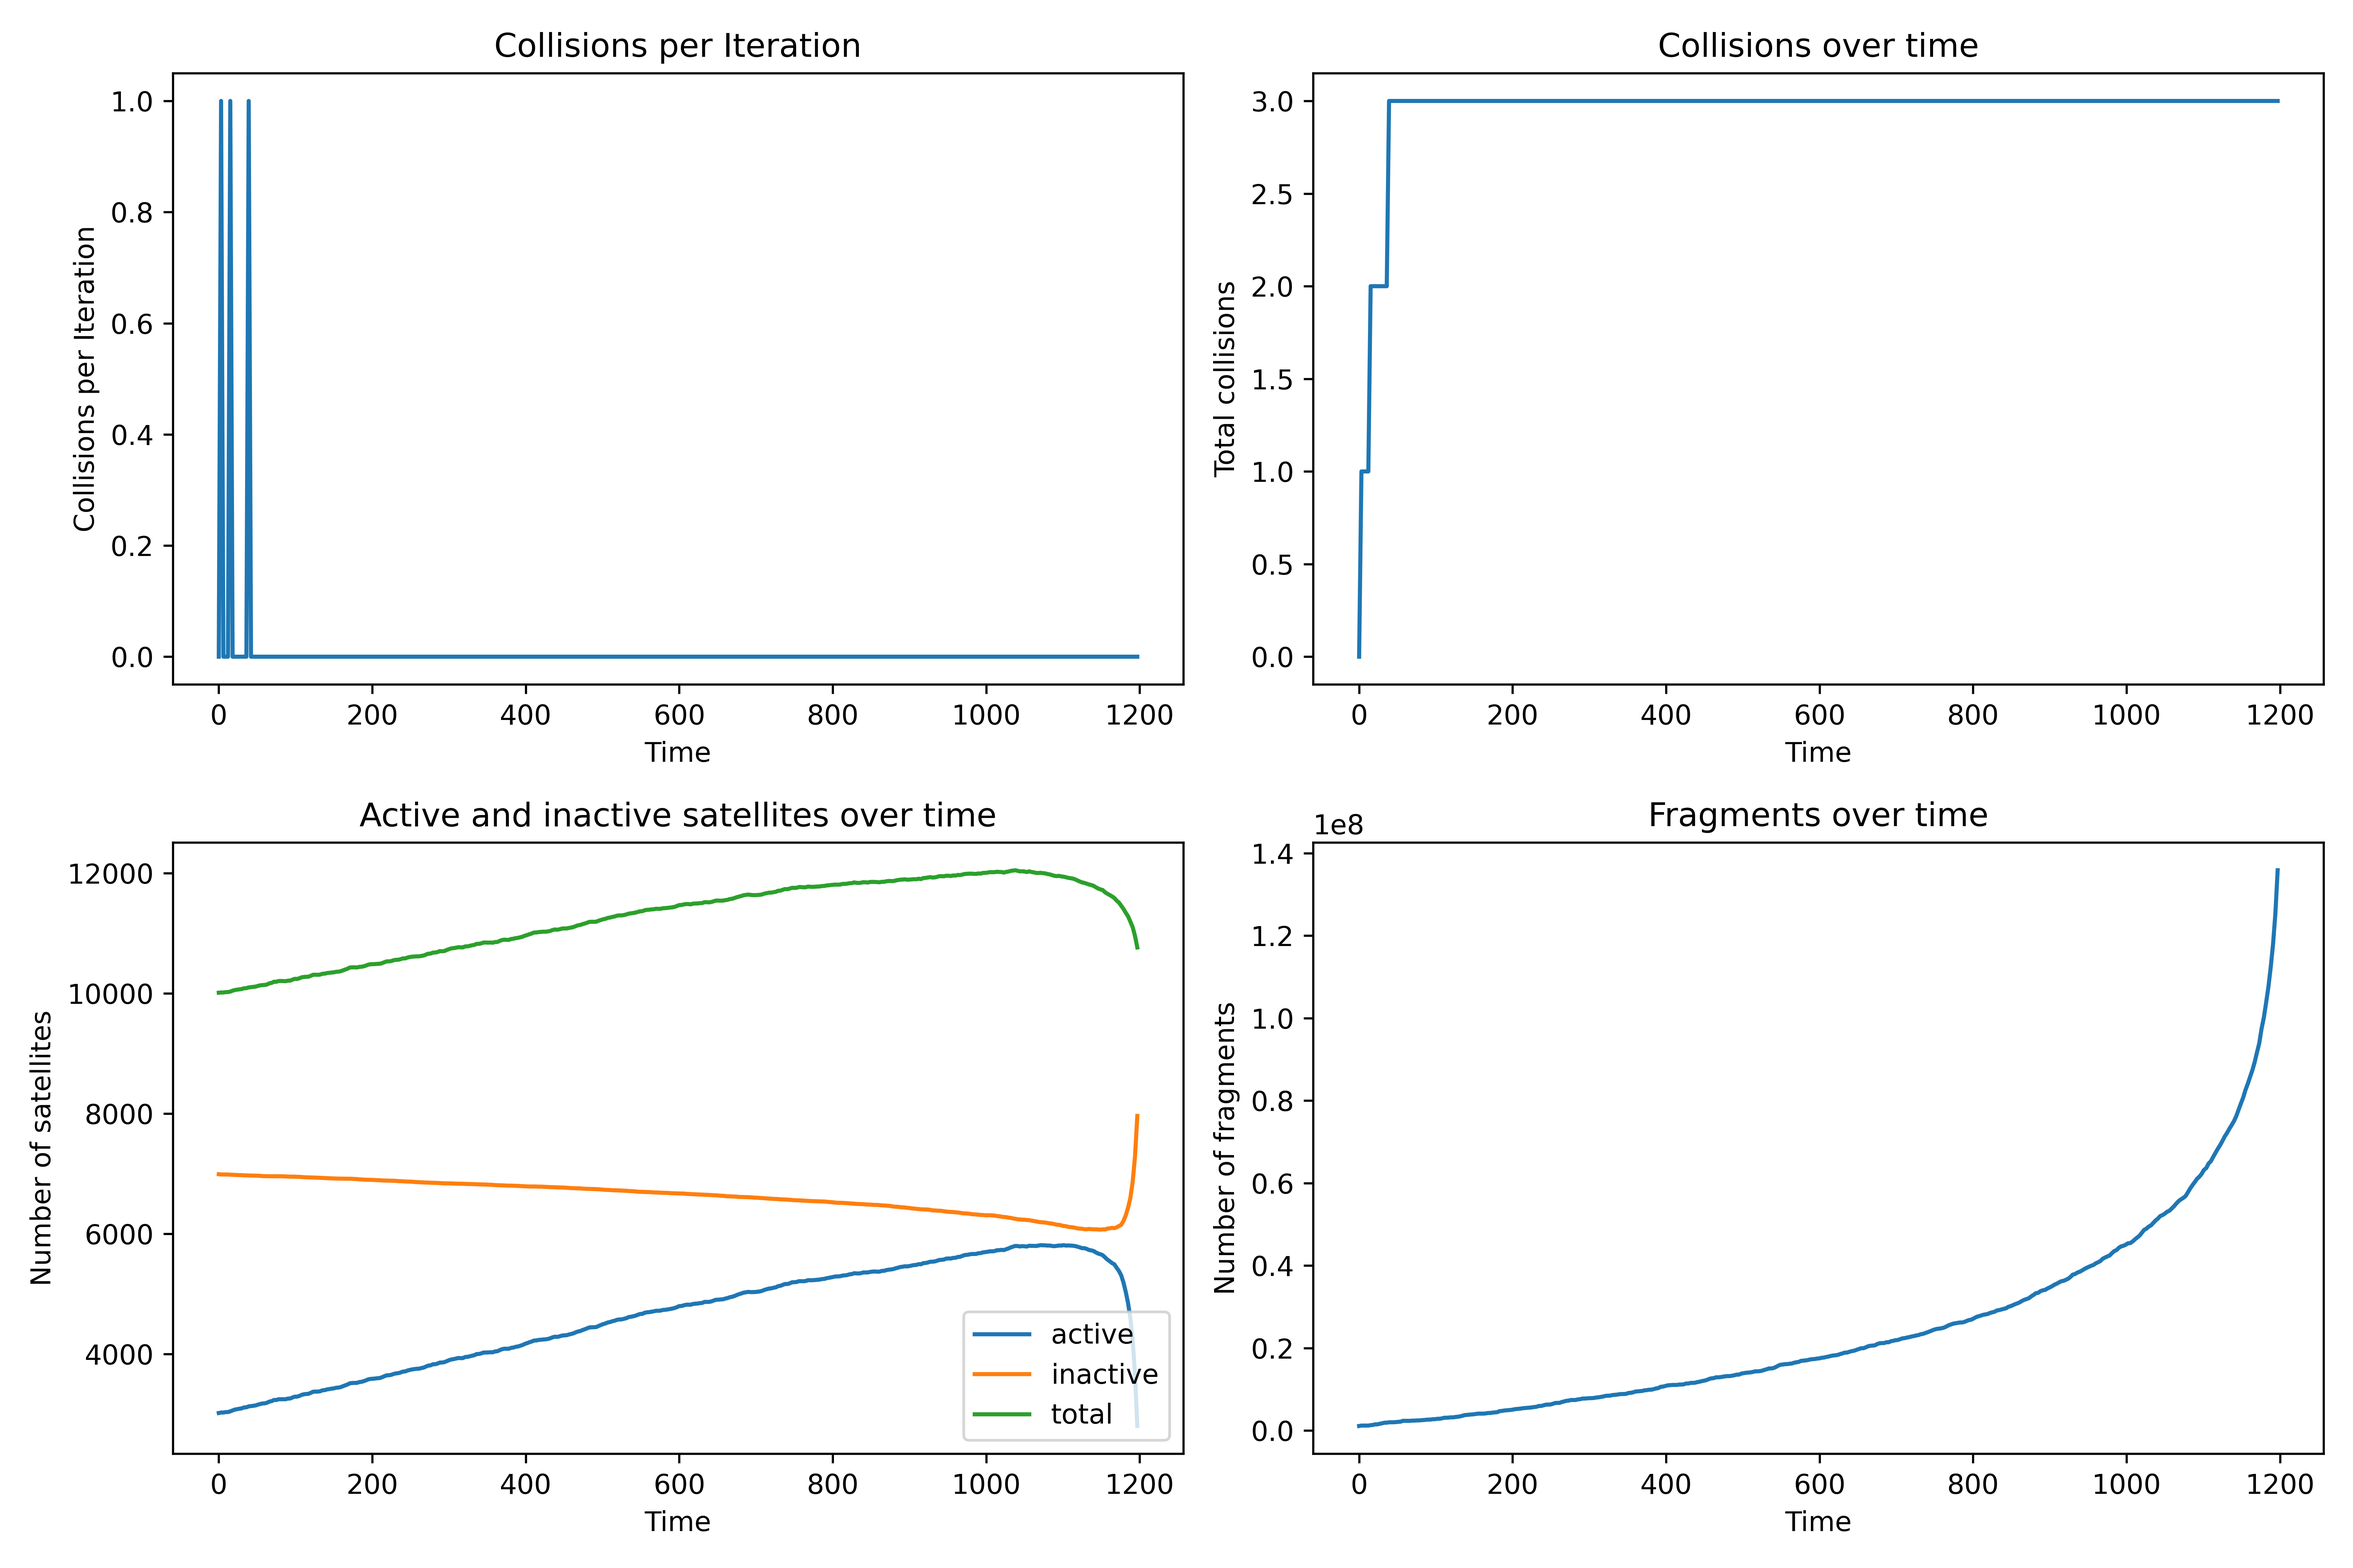
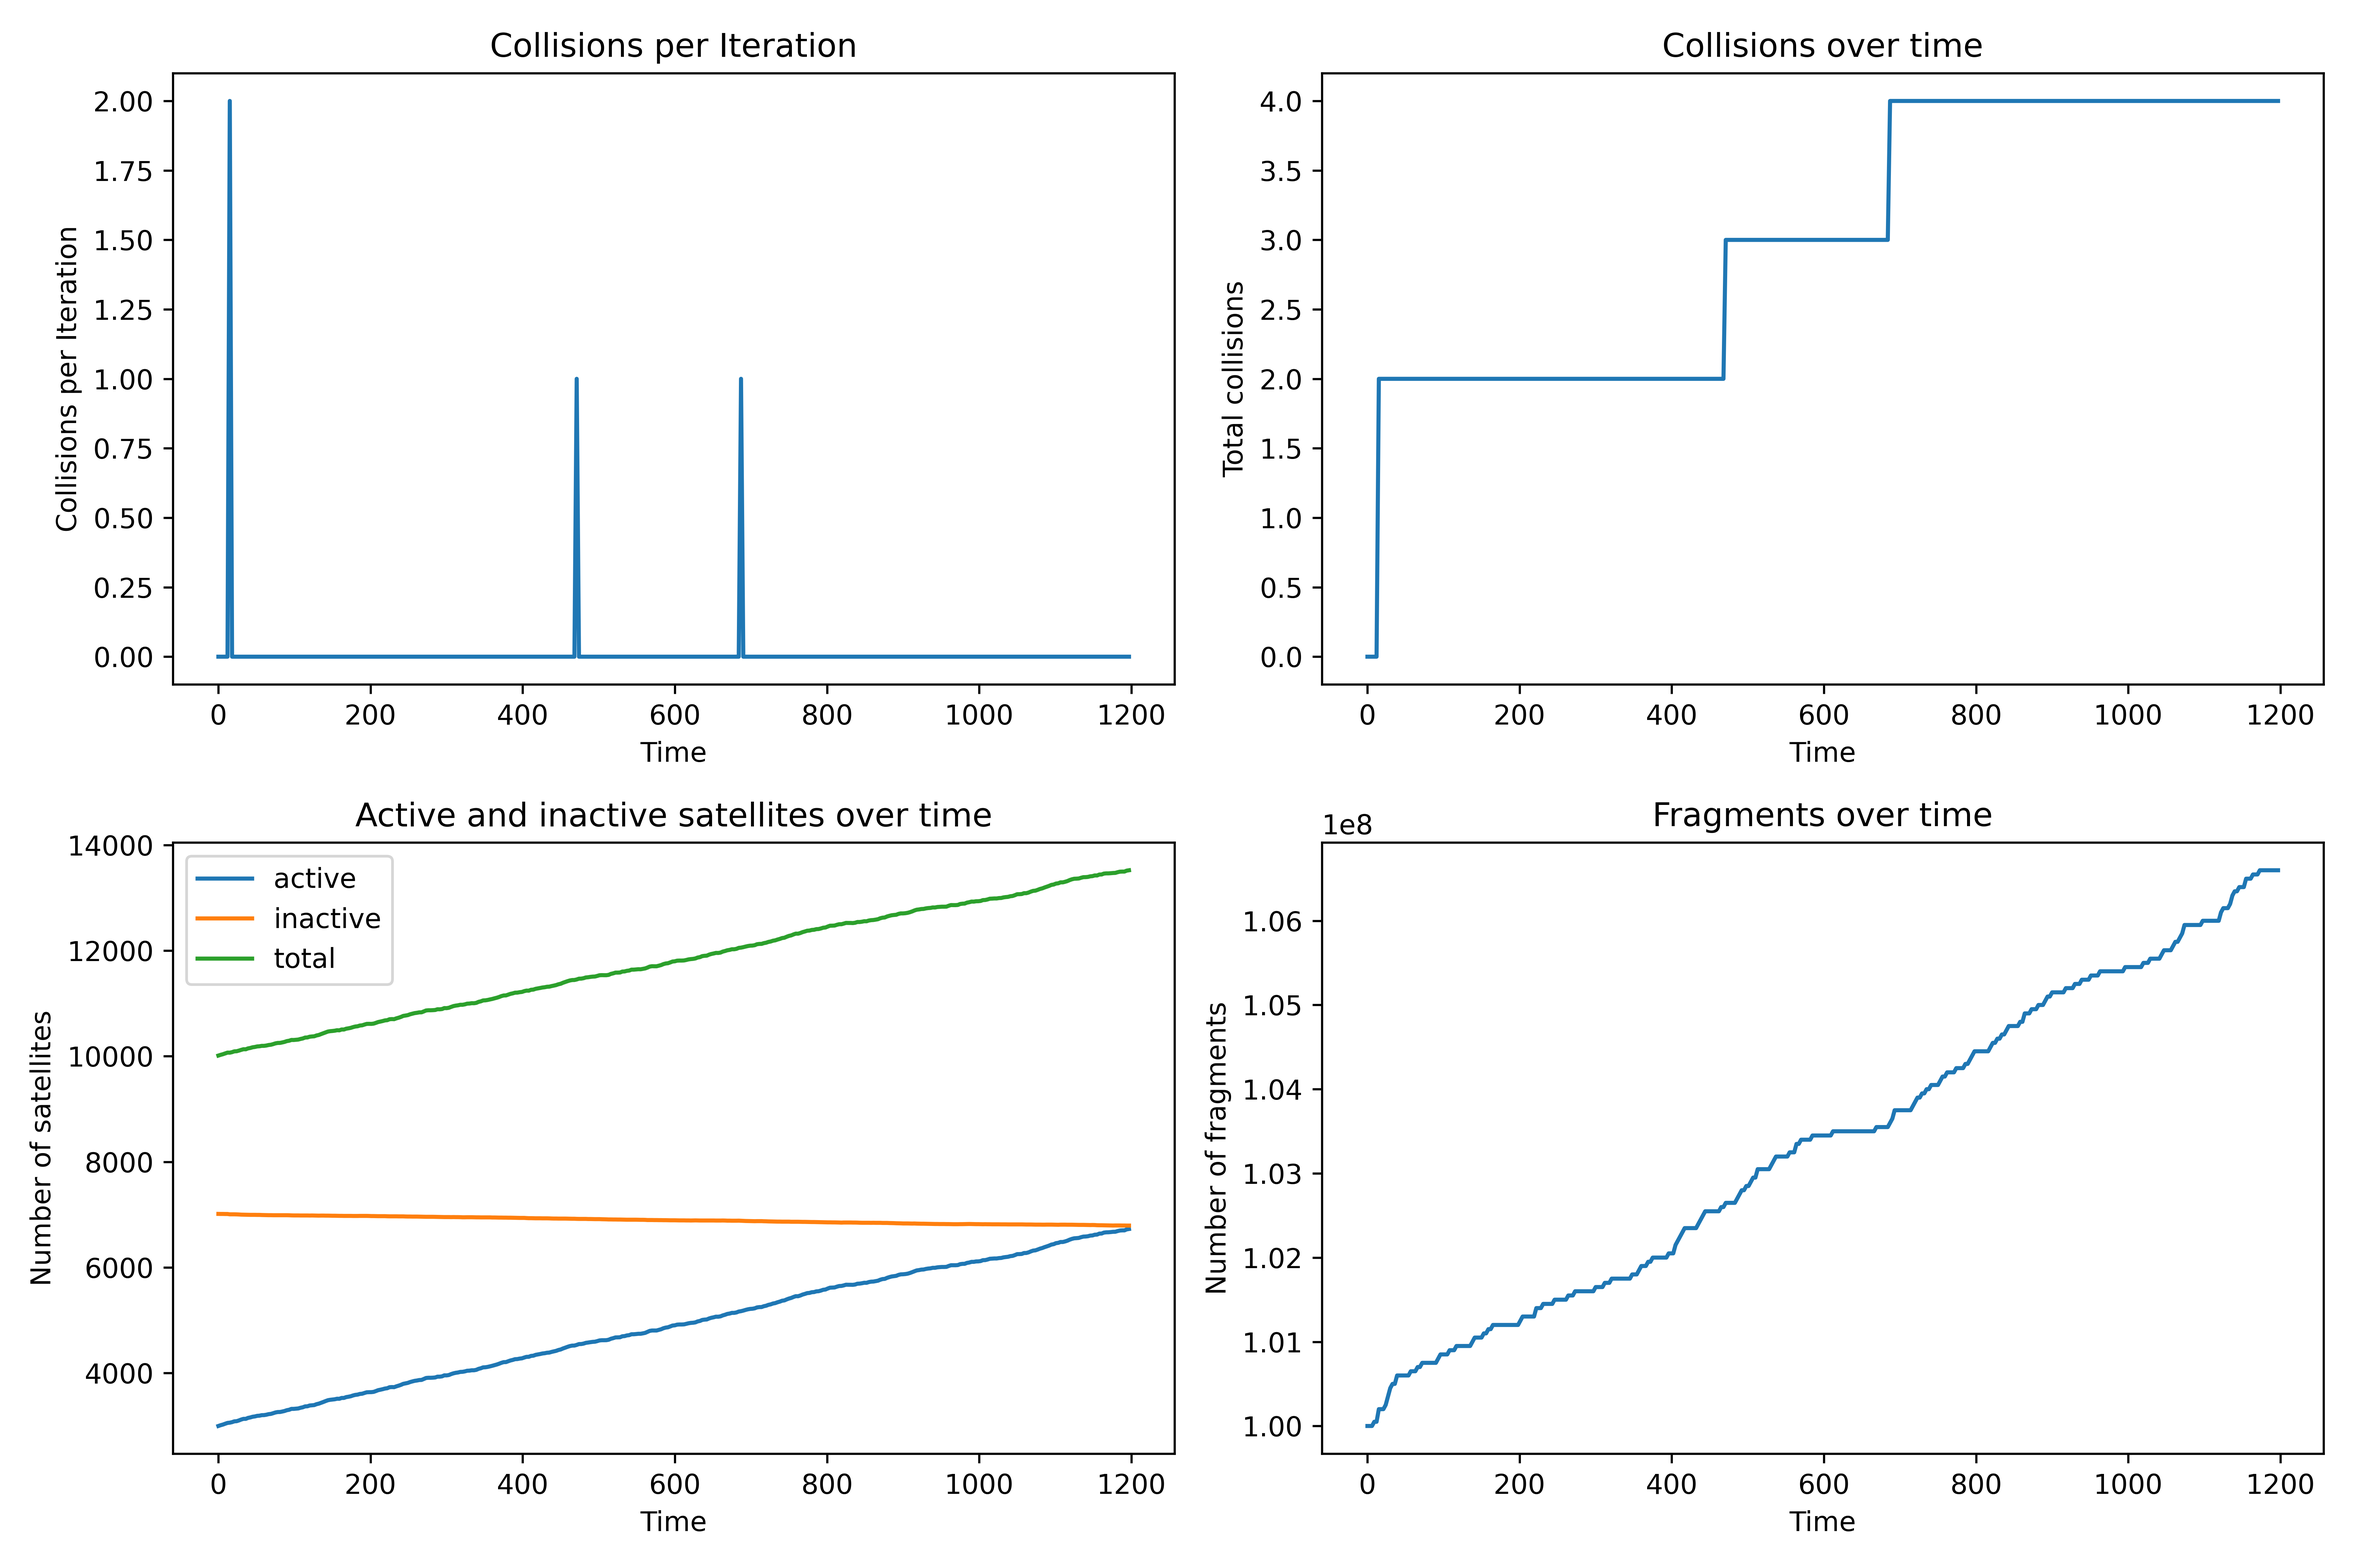
Change fragment collision probability
Now follows linear distribution

diff --git a/Python/OrbitalDistance/probability_distributions.py b/Python/OrbitalDistance/probability_distributions.py
@@ -41,22 +41,40 @@ def logistic_distribution(xx, gg, dd, cc):
     return yy
 
 
-def plot_distributions(x1, sigma, active, x2, gg, dd, cc):
-    hnx = np.linspace(0, x1, 1000)
-    halfNormal = half_normal(hnx, sigma, active)
-    plt.plot(hnx, halfNormal, 'r-', lw=2)
-    plt.xlabel('Value')
-    plt.ylabel('Frequency')
-    plt.title(f'Half Normal Distribution with Standard Deviation σ={sigma}')
-    plt.show()
+@jit(nopython=True)
+def linear_distribution(xx, mm, bb):
+    yy = mm * xx + bb
+    return yy
 
-    lx = np.linspace(0, x2, 1000)
-    logistic = logistic_distribution(lx, gg, dd, cc)
-    plt.plot(hnx, logistic, 'r-', lw=2)
-    plt.xlabel('Value')
-    plt.ylabel('Frequency')
-    plt.title(f'Half Normal Distribution with Standard Deviation σ={sigma}')
-    plt.show()
+
+def plot_distributions(x1, sigma, active, x2, gg, dd, cc, x3, mm, bb, plot=(1, 1, 1)):
+    plot_normal, plot_logistic, plot_linear = plot
+    if plot_normal:
+        hnx = np.linspace(0, x1, 1000)
+        halfNormal = half_normal(hnx, sigma, active)
+        plt.plot(hnx, halfNormal, 'r-', lw=2)
+        plt.xlabel('Value')
+        plt.ylabel('Frequency')
+        plt.title(f'Half Normal Distribution with Standard Deviation σ={sigma}')
+        plt.show()
+
+    if plot_logistic:
+        lx = np.linspace(0, x2, 1000)
+        logistic = logistic_distribution(lx, gg, dd, cc)
+        plt.plot(lx, logistic, 'r-', lw=2)
+        plt.xlabel('Value')
+        plt.ylabel('Frequency')
+        plt.title(f'Logistic Distribution with d={dd}, c={cc}')
+        plt.show()
+
+    if plot_linear:
+        linx = np.linspace(0, x3, 1000)
+        linear = linear_distribution(linx, mm, bb)
+        plt.plot(linx, linear, 'r-', lw=2)
+        plt.xlabel('Value')
+        plt.ylabel('Frequency')
+        plt.title(f'Linear Distribution with m={mm}, b={bb}')
+        plt.show()
 
 
 if __name__ == "__main__":
@@ -64,9 +82,13 @@ if __name__ == "__main__":
     sigma = 2000
     active = 1
 
-    x2 = 10000000
+    x2 = 1000000000
     gg = 1
-    dd = 1000000
-    cc = 0.0000001
-    plot_distributions(x1, sigma, active, x2, gg, dd, cc)
-    print("Done")
+    dd = 10000
+    cc = 0.00000002
+
+    x3 = 1000000000
+    mm = 1 / 10000 / 1000000000
+    bb = 0
+
+    plot_distributions(x1, sigma, active, x2, gg, dd, cc, x3, mm, bb, plot=(0, 0, 1))

diff --git a/Python/OrbitalDistance/model_dynamics.py b/Python/OrbitalDistance/model_dynamics.py
@@ -1,11 +1,8 @@
-import numpy as np
-from numba import jit
-from probability_distributions import *
 from calculations import *
 
 
 @jit(nopython=True)
-def small_fragment(colProbMatrix, satParameters, satConstants, smallFragments, dd, cc, sigma, accuracy):
+def small_fragment(colProbMatrix, satParameters, satConstants, smallFragments, mm, bb, sigma, accuracy):
     '''
     Updates the collision probability matrix considering the chance that a number of active satellites are hit by small
     fragments and become an inactive one. The probability of a fragment colliding with a satellite is calculated using a
@@ -32,7 +29,7 @@ def small_fragment(colProbMatrix, satParameters, satConstants, smallFragments, d
     activeSatellites = np.count_nonzero(activeSatParameters)
     for ii in range(activeSatellites):
         pp = np.random.rand()
-        fragmentCollisionProb = logistic_distribution(smallFragments, 1, dd, cc)
+        fragmentCollisionProb = linear_distribution(smallFragments, mm, bb)
         if pp < fragmentCollisionProb:
             struckSat, act = np.where(satParameters == 1)
             randSat = struckSat[np.random.randint(0, len(struckSat))]
@@ -57,7 +54,7 @@ def small_fragment(colProbMatrix, satParameters, satConstants, smallFragments, d
     return colProbMatrix, satParameters, satellitesStruck
 
 
-def large_fragment(colProbMatrix, satParameters, satConstants, smallFragments, largeFragments, freeIndices, dd, cc):
+def large_fragment(colProbMatrix, satParameters, satConstants, smallFragments, largeFragments, freeIndices, mm, bb):
     '''
     Large fragments are able to destroy satellites, setting their collision probability to 0, aswell as their
     parameters. Additionally, large fragment collision create small and large fragments.
@@ -87,7 +84,7 @@ def large_fragment(colProbMatrix, satParameters, satConstants, smallFragments, l
     nonDestroyed = np.where(mask)[0]
     for ii in range(len(nonDestroyed)):
         pp = np.random.rand()
-        fragmentCollisionProb = logistic_distribution(largeFragments, 1, dd, cc)
+        fragmentCollisionProb = linear_distribution(largeFragments, mm, bb)
         if pp < fragmentCollisionProb:
             randSat = nonDestroyed[np.random.randint(0, len(nonDestroyed))]
             satParameters[randSat][:] = np.array([0, 0, 0, 0, 0, 0, -1])

diff --git a/Python/OrbitalDistance/model_simulation.py b/Python/OrbitalDistance/model_simulation.py
@@ -1,5 +1,3 @@
-from probability_distributions import *
-from calculations import *
 from model_dynamics import *
 from data_handling import *
 
@@ -26,8 +24,8 @@ def hubald_model(startingSats, tmax, timestep, aLimits=(200_000, 2_000_000), acc
     '''
     sigma = 2000
     activePercentage = 0.3
-    smallFragments = 1_000_000
-    largeFragments = 10_000
+    smallFragments = 100_000_000
+    largeFragments = 100_000
     collectedData = np.empty((7, tmax // timestep))
     freeIndices = []
 
@@ -37,12 +35,12 @@ def hubald_model(startingSats, tmax, timestep, aLimits=(200_000, 2_000_000), acc
     nonzero = np.nonzero(colProbMatrix)
     counter = 0
     for tt in range(0, tmax, timestep):
-        d, c = 1000000, 0.0000001
+        m, b = 1 / 10000 / 12 / 100000000 * timestep, 0
         colProbMatrix, satParameters, satsStruck = small_fragment(colProbMatrix, satParameters, satConstants,
-                                                                  smallFragments, d, c, sigma, accuracy)
+                                                                  smallFragments, m, b, sigma, accuracy)
 
-        d, c = 10000, 0.00001
-        fragmentArgs = (colProbMatrix, satParameters, satConstants, smallFragments, largeFragments, freeIndices, d, c)
+        m, b = 1 / 10000 / 12 / 100000 * timestep, 0
+        fragmentArgs = (colProbMatrix, satParameters, satConstants, smallFragments, largeFragments, freeIndices, m, b)
         colProbMatrix, satParameters, satConstants, fragments, satsStruck, freeIndices = large_fragment(*fragmentArgs)
         smallFragments, largeFragments = fragments
 

diff --git a/Python/OrbitalDistance/calculations.py b/Python/OrbitalDistance/calculations.py
@@ -1,5 +1,3 @@
-import numpy as np
-from numba import jit
 from probability_distributions import *
 
 
@@ -91,7 +89,7 @@ def initialize(nrOfSats, alimits, activeFraction, plane=False):
 
 
 @jit(nopython=True)
-def find_minimum(parameters1, parameters2, const1, const2, acc=100, repetitions=3):
+def find_minimum(parameters1, parameters2, const1, const2, acc=100, repetitions=2):
     '''
     Calculates the closest approach of two satellites. The minimum of the 2-dimensional distance function depending on
     the respective orbital anomalies is searched.
